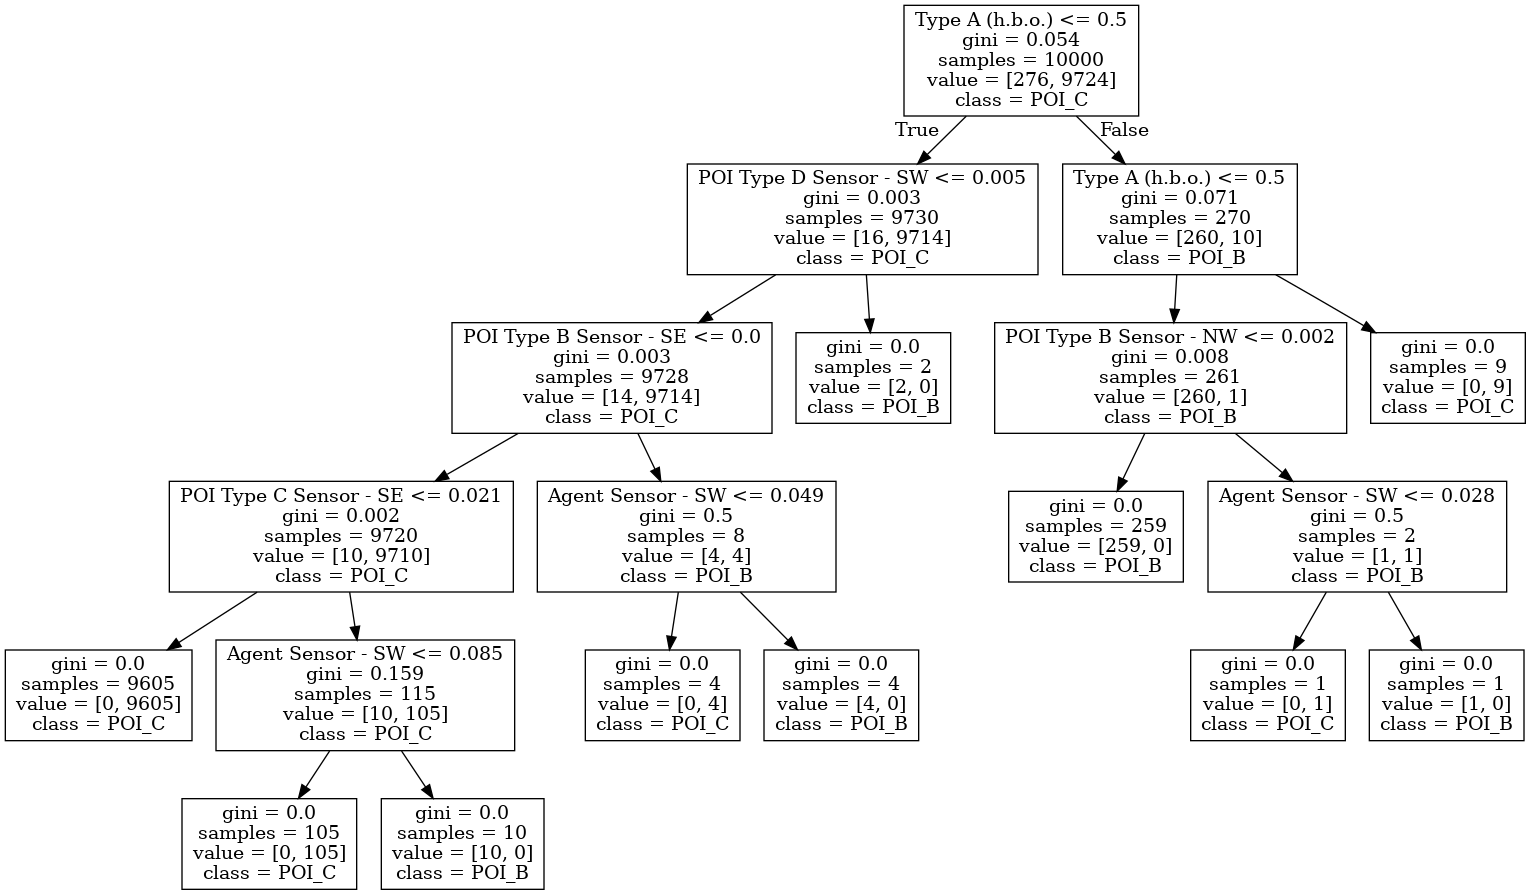
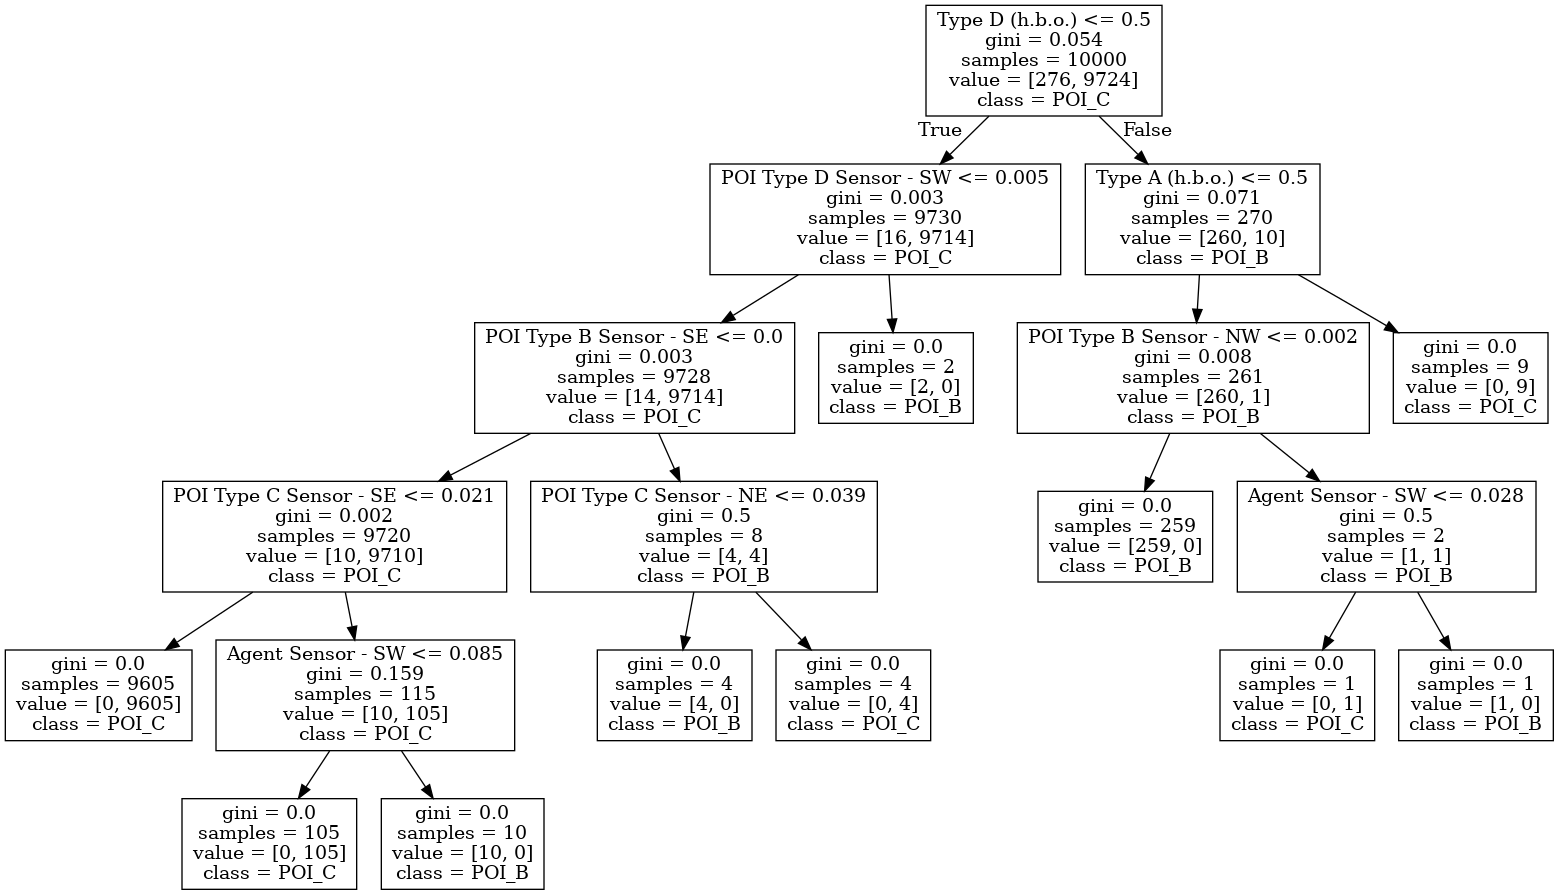
Types h.b.o fixed

diff --git a/decision_trees.py b/decision_trees.py
@@ -107,7 +107,7 @@ if __name__ == "__main__":
                     "POI Type D Sensor - NE", "POI Type D Sensor - NW", "POI Type D Sensor - SW",
                     "POI Type D Sensor - SE",
                     "Type A (t.b.o.)", "Type B (t.b.o.)", "Type C (t.b.o.)", "Type D (t.b.o.)",
-                    "Type A (h.b.o.)", "Type A (h.b.o.)", "Type A (h.b.o.)", "Type A (h.b.o.)"]
+                    "Type A (h.b.o.)", "Type B (h.b.o.)", "Type C (h.b.o.)", "Type D (h.b.o.)"]
 
         class_names = ["Rover_0", "Rover_1", "Rover_2", "Rover_3", "Rover_4", "Rover_5", "Rover_6", "Rover_7"]
         agents_seen = np.unique(y)
@@ -144,7 +144,7 @@ if __name__ == "__main__":
                     "POI Type D Sensor - NE", "POI Type D Sensor - NW", "POI Type D Sensor - SW",
                     "POI Type D Sensor - SE",
                     "Type A (t.b.o.)", "Type B (t.b.o.)", "Type C (t.b.o.)", "Type D (t.b.o.)",
-                    "Type A (h.b.o.)", "Type A (h.b.o.)", "Type A (h.b.o.)", "Type A (h.b.o.)"]
+                    "Type A (h.b.o.)", "Type B (h.b.o.)", "Type C (h.b.o.)", "Type D (h.b.o.)"]
 
         class_names = ["POI_A", "POI_B", "POI_C", "POI_D"]
         actions_seen = np.unique(y)
